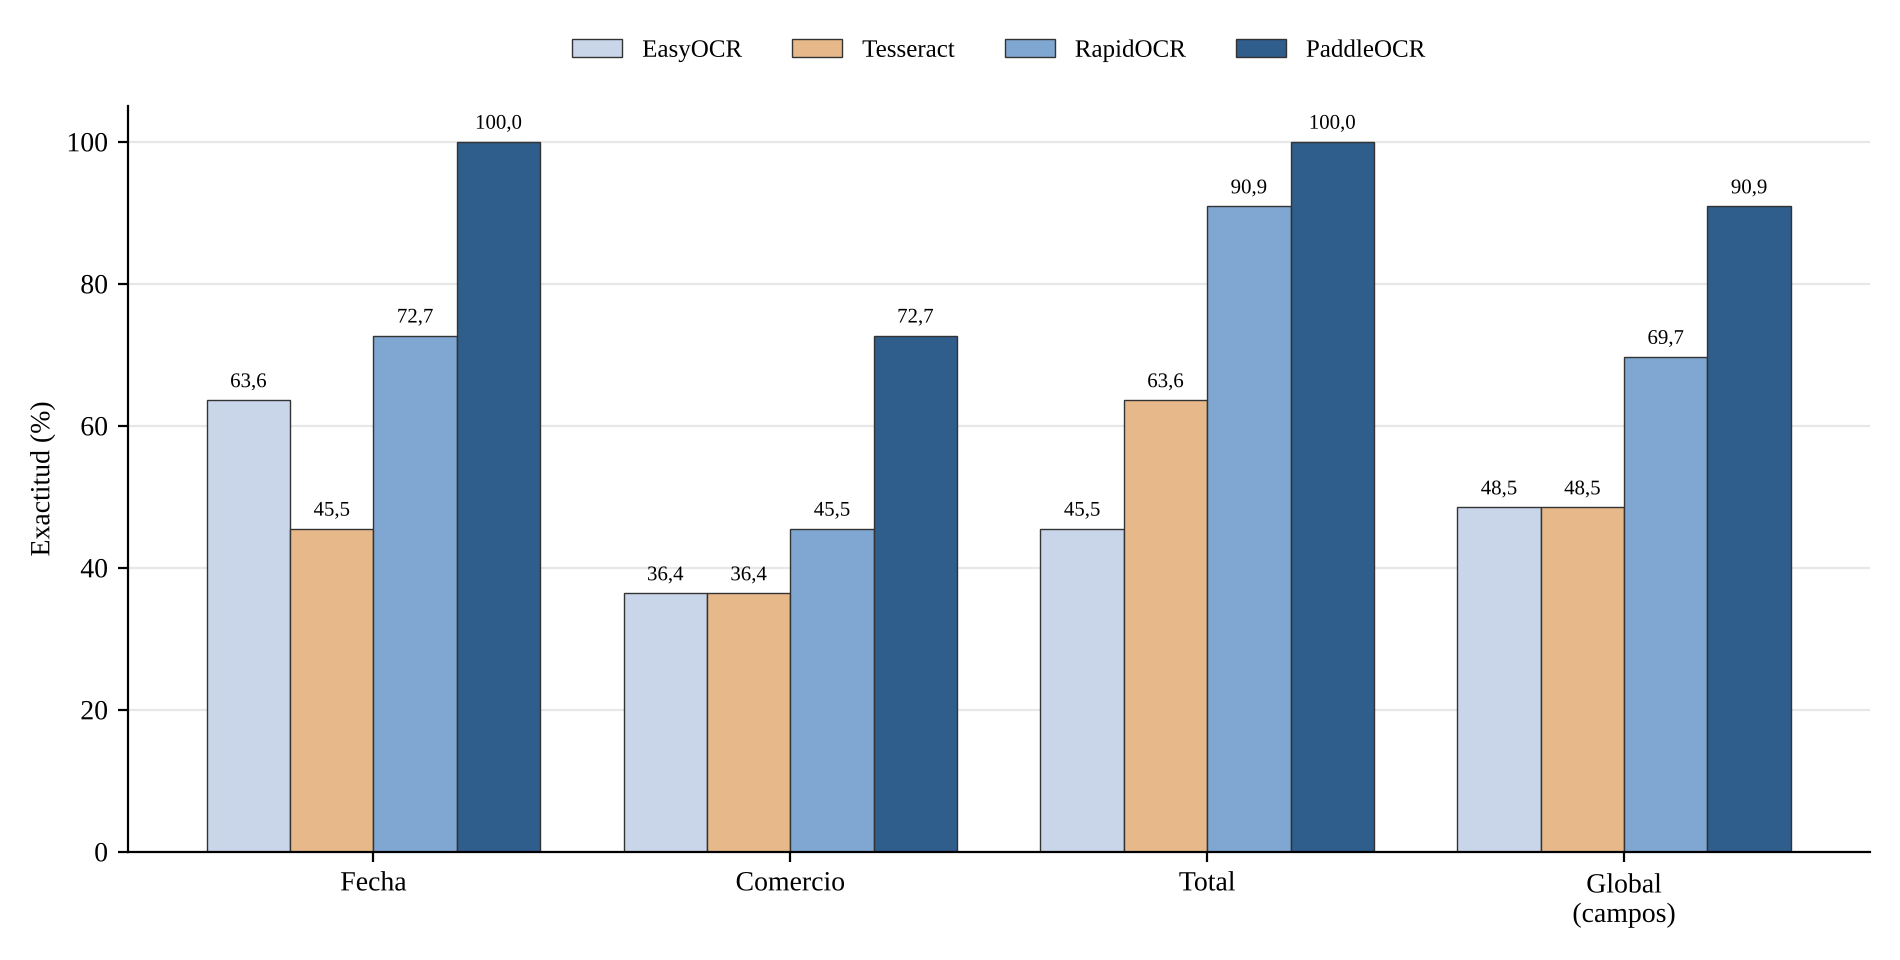
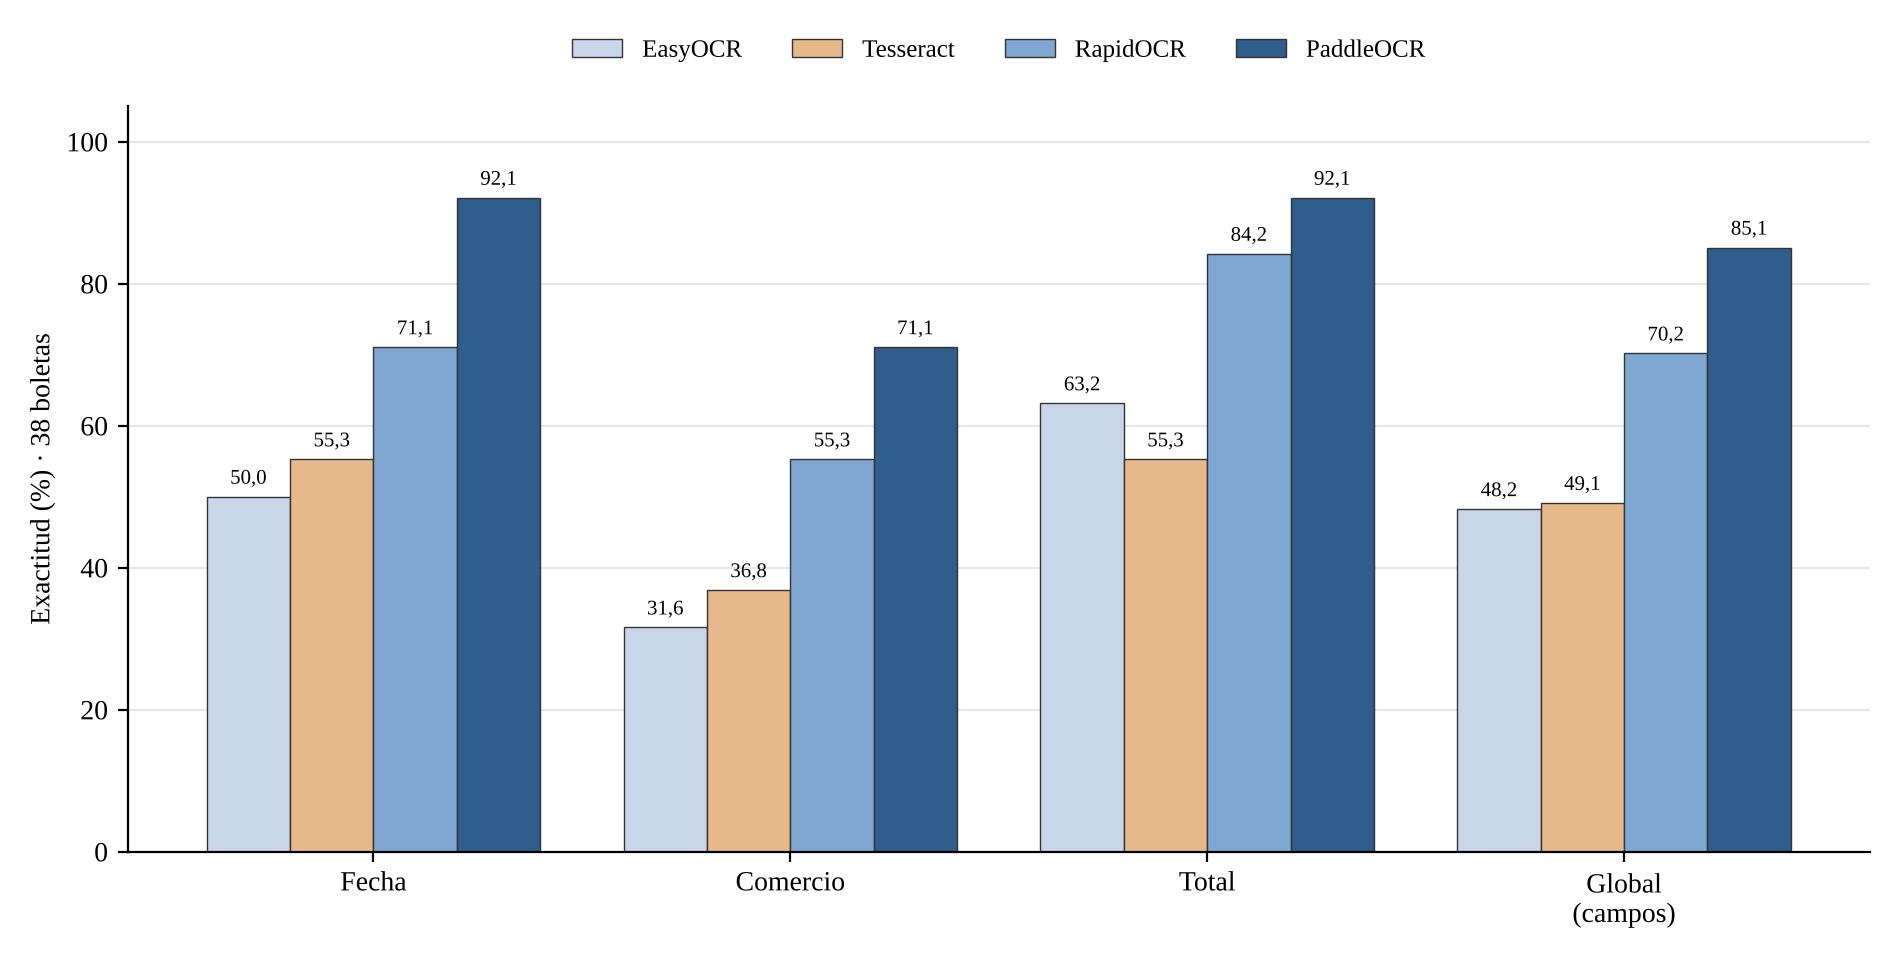
Muestra de 38 boletas: gráficos, métricas y documentación de la validación independiente

diff --git a/experimentos/diagramas/graficos.py b/experimentos/diagramas/graficos.py
@@ -1,6 +1,5 @@
-"""Gráfico de exactitud por campo (4 motores) y lámina de las 11 boletas reales anonimizadas."""
+"""Gráfico de exactitud por campo (4 motores, todas las boletas) y lámina de las boletas reales anonimizadas."""
 import csv
-import json
 from pathlib import Path
 
 import cv2
@@ -11,35 +10,55 @@ import matplotlib.pyplot as plt
 import numpy as np
 
 AQUI = Path(__file__).resolve().parent
-RES = AQUI.parent / "resultados" / "final"
+EXP = AQUI.parent
+RES = EXP / "resultados"
 plt.rcParams["font.family"] = "Liberation Serif"
+MOTORES = ["easyocr", "tesseract", "rapidocr", "paddleocr"]
 
-resumen = {r["motor"]: r for r in json.loads((RES / "resumen.json").read_text())["resultados"]}
-claves = ["exactitud_fecha", "exactitud_comercio", "exactitud_total", "exactitud_global_campos"]
-etiquetas = ["Fecha", "Comercio", "Total", "Global\n(campos)"]
+
+def detalle(carpeta, motor):
+    return list(csv.DictReader((RES / carpeta / f"detalle_{motor}.csv").open(encoding="utf-8")))
+
+
+# Todas las boletas: R1-R11 (carpeta final) + R12-R38 (validación independiente)
+filas = {m: detalle("final", m) + (detalle("validacion_independiente", m) if (RES / "validacion_independiente").exists() else []) for m in MOTORES}
+n_total = len(filas["paddleocr"])
+
+
+def pct(m, claves):
+    ok = sum(sum(int(f[c]) for c in claves) for f in filas[m])
+    return 100 * ok / (len(claves) * len(filas[m]))
+
+
+grupos = [("Fecha", ["fecha_ok"]), ("Comercio", ["comercio_ok"]), ("Total", ["total_ok"]), ("Global\n(campos)", ["fecha_ok", "comercio_ok", "total_ok"])]
 series = [("EasyOCR", "easyocr", "#C9D6EA"), ("Tesseract", "tesseract", "#E7B98A"), ("RapidOCR", "rapidocr", "#7FA7D1"), ("PaddleOCR", "paddleocr", "#2F5D8C")]
 fig, ax = plt.subplots(figsize=(9.5, 4.8), dpi=200)
-x = np.arange(len(claves)); w = 0.2
+x = np.arange(len(grupos)); w = 0.2
 for i, (nombre, motor, color) in enumerate(series):
-    valores = [resumen[motor][k] for k in claves]
+    valores = [pct(motor, claves) for _, claves in grupos]
     barras = ax.bar(x + (i - 1.5) * w, valores, w, label=nombre, color=color, edgecolor="#333333", linewidth=0.5)
     for b, v in zip(barras, valores):
         ax.text(b.get_x() + b.get_width() / 2, v + 1.2, f"{v:.1f}".replace(".", ","), ha="center", va="bottom", fontsize=7.5)
-ax.set_xticks(x, etiquetas); ax.set_ylim(0, 105); ax.set_ylabel("Exactitud (%)")
+ax.set_xticks(x, [g for g, _ in grupos]); ax.set_ylim(0, 105); ax.set_ylabel(f"Exactitud (%) · {n_total} boletas")
 ax.spines[["top", "right"]].set_visible(False); ax.yaxis.grid(True, alpha=0.3); ax.set_axisbelow(True)
 ax.legend(frameon=False, ncol=4, loc="upper center", bbox_to_anchor=(0.5, 1.12), fontsize=9)
 fig.tight_layout(); fig.savefig(AQUI / "exactitud_por_campo.png", facecolor="white")
 
-ids = [r["id"] for r in csv.DictReader((AQUI.parent / "datos/referencia.csv").open(encoding="utf-8"))]
-archivos = {r["id"]: r["archivo"] for r in csv.DictReader((AQUI.parent / "datos/referencia.csv").open(encoding="utf-8"))}
+# Lámina de la muestra (las imágenes de R12-R38 están en datos_privado, fuera de Git)
+refs = list(csv.DictReader((EXP / "datos/referencia.csv").open(encoding="utf-8")))
+if (EXP / "datos_privado/referencia.csv").exists():
+    refs += [dict(r, _privado=True) for r in csv.DictReader((EXP / "datos_privado/referencia.csv").open(encoding="utf-8"))]
 imgs = []
-for i in ids:
-    im = cv2.imread(str(AQUI.parent / "datos" / archivos[i]))
-    im = cv2.resize(im, (300, 430), interpolation=cv2.INTER_AREA)
-    cv2.rectangle(im, (0, 396), (300, 430), (255, 255, 255), -1)
-    cv2.putText(im, i, (8, 422), cv2.FONT_HERSHEY_SIMPLEX, 0.7, (20, 20, 20), 2, cv2.LINE_AA)
-    imgs.append(cv2.copyMakeBorder(im, 4, 4, 4, 4, cv2.BORDER_CONSTANT, value=(255, 255, 255)))
-while len(imgs) % 6:
+for r in refs:
+    ruta = EXP / ("datos_privado" if r.get("_privado") else "datos") / r["archivo"]
+    if not ruta.exists():
+        continue
+    im = cv2.imread(str(ruta))
+    im = cv2.resize(im, (220, 316), interpolation=cv2.INTER_AREA)
+    cv2.rectangle(im, (0, 290), (220, 316), (255, 255, 255), -1)
+    cv2.putText(im, r["id"], (6, 311), cv2.FONT_HERSHEY_SIMPLEX, 0.55, (20, 20, 20), 2, cv2.LINE_AA)
+    imgs.append(cv2.copyMakeBorder(im, 3, 3, 3, 3, cv2.BORDER_CONSTANT, value=(255, 255, 255)))
+columnas = 8
+while len(imgs) % columnas:
     imgs.append(np.full_like(imgs[0], 255))
-filas = [np.hstack(imgs[k:k + 6]) for k in range(0, len(imgs), 6)]
-cv2.imwrite(str(AQUI / "muestras_dataset.png"), np.vstack(filas))
+cv2.imwrite(str(AQUI / "muestras_dataset.png"), np.vstack([np.hstack(imgs[k:k + columnas]) for k in range(0, len(imgs), columnas)]))

diff --git a/experimentos/metricas_complementarias.py b/experimentos/metricas_complementarias.py
@@ -18,8 +18,9 @@ def wilson(aciertos: int, n: int, z: float = 1.96) -> tuple[float, float]:
 
 
 salida = {}
+TODOS = ("easyocr", "tesseract", "rapidocr", "paddleocr")
 RONDAS = [("ronda1", RES / "ronda1_sin_normalizacion", ("easyocr", "tesseract")), ("ronda2", RES, ("easyocr", "tesseract")),
-          ("final", RES / "final", ("easyocr", "tesseract", "rapidocr", "paddleocr"))]
+          ("final", RES / "final", TODOS), ("validacion", RES / "validacion_independiente", TODOS)]
 for ronda, carpeta, motores in RONDAS:
     for motor in motores:
         if not (carpeta / f"detalle_{motor}.csv").exists():
@@ -33,5 +34,14 @@ for ronda, carpeta, motores in RONDAS:
             "ic95_por_campo": {c: wilson(v, n) for c, v in por_campo.items()},
             "boletas_completas": int(sum(int(f["fecha_ok"]) + int(f["comercio_ok"]) + int(f["total_ok"]) == 3 for f in filas)), "n": n,
         }
+# Todas las boletas (ajuste + validación independiente)
+for motor in TODOS:
+    if not (RES / "validacion_independiente" / f"detalle_{motor}.csv").exists():
+        continue
+    filas = (list(csv.DictReader((RES / "final" / f"detalle_{motor}.csv").open(encoding="utf-8")))
+             + list(csv.DictReader((RES / "validacion_independiente" / f"detalle_{motor}.csv").open(encoding="utf-8"))))
+    n = len(filas)
+    campos = sum(int(f["fecha_ok"]) + int(f["comercio_ok"]) + int(f["total_ok"]) for f in filas)
+    salida[f"todas_{motor}"] = {"campos_correctos": campos, "campos_total": 3 * n, "ic95_global": wilson(campos, 3 * n), "n": n}
 (RES / "metricas_complementarias.json").write_text(json.dumps(salida, ensure_ascii=False, indent=2), encoding="utf-8")
 print(json.dumps(salida, ensure_ascii=False))

diff --git a/experimentos/README.md b/experimentos/README.md
@@ -1,18 +1,20 @@
 # Experimentos del informe final
 
-Evaluación reproducible del prototipo con **11 boletas reales anonimizadas** (capítulos 7.4 y 8 del informe).
+Evaluación reproducible del prototipo con **38 boletas reales anonimizadas** (capítulos 7.4 y 8 del informe): 11 con las que se ajustaron las reglas (R1 a R11) y 27 de validación independiente (R12 a R38).
 
 ## Contenido
 
 | Ruta | Descripción |
 |---|---|
+| `datos_privado/` | Referencias (`referencia.csv`) de las 27 boletas de validación (R12 a R38). Sus imágenes anonimizadas **no están en Git** (repositorio público) y se entregan aparte en el archivo de datos; se esperan en `datos_privado/imagenes/`. |
 | `datos/imagenes/` | 11 fotografías reales (R1 a R11) tomadas por el equipo. Los datos personales y de pago (tarjetas, DNI, códigos de transacción, nombres de personas, RUC de persona natural, códigos QR y de barras) están cubiertos con recuadros negros. |
 | `datos/referencia.csv` | Fecha, comercio (formas válidas separadas por `\|`) y total correctos, transcritos manualmente. La fecha de R10 es inferida. |
 | `evaluar_ocr.py` | Experimentos 1 y 3: ejecuta el pipeline real con EasyOCR (opcional), Tesseract, RapidOCR y PaddleOCR y mide exactitud y tiempos. |
 | `comparar_preprocesado.py` | Experimento 4: compara cuatro formas de preparar la imagen. |
 | `metricas_complementarias.py` | Intervalos de confianza de Wilson (95 %). |
 | `experimento2/` | Protocolo, plantilla y script del Experimento 2 (tiempo de registro con usuarios); **no se ejecutó**. |
-| `resultados/final/` | Resultados del prototipo actual con los cuatro motores (detalle por boleta, `resumen.json`, `resumen.md`). |
+| `resultados/final/` | Resultados de los cuatro motores con R1 a R11 (detalle por boleta, `resumen.json`, `resumen.md`). |
+| `resultados/validacion_independiente/` | Resultados de los cuatro motores con R12 a R38, medidas sin ajustar ninguna regla. |
 | `resultados/final_previo/` | Mismos motores antes de la última corrección de las reglas de fecha y de importe en letras. |
 | `resultados/ronda1_sin_normalizacion/`, `resultados/*.md` | Rondas anteriores (cinco boletas, preprocesado, boletas nuevas y comparación de motores). |
 | `diagramas/` | Diagrama de flujo, arquitectura, gráfico de resultados, lámina de la muestra y capturas reales del prototipo. |
@@ -32,13 +34,15 @@ python experimentos/comparar_preprocesado.py paddleocr
 Si los modelos de PaddleOCR ya están descargados, define `PADDLE_MODELOS` con la carpeta que contiene
 `PP-OCRv5_mobile_det_infer` y `latin_PP-OCRv5_mobile_rec_infer`.
 
-## Resultados (prototipo actual, 11 boletas reales, CPU, imagen en grises)
+## Resultados (prototipo actual, CPU, imagen en grises)
 
 | Métrica | PaddleOCR | RapidOCR | EasyOCR | Tesseract |
 |---|---|---|---|---|
-| Exactitud global de campos | 90.9 % | 69.7 % | 48.5 % | 48.5 % |
-| Boletas con los 3 campos correctos | 8 de 11 | 3 de 11 | 1 de 11 | 1 de 11 |
-| Tiempo medio por boleta | 11.2 s | 1.2 s | 12.2 s | 1.3 s |
+| Exactitud global, 38 boletas | 85.1 % | 70.2 % | 48.2 % | 49.1 % |
+| Exactitud global, ajuste (R1–R11) | 90.9 % | 69.7 % | 48.5 % | 48.5 % |
+| Exactitud global, validación independiente (R12–R38) | 82.7 % | 70.4 % | 48.1 % | 49.4 % |
+| Tiempo medio por boleta | 11.6 s | 1.3 s | 13.1 s | 1.4 s |
 
-La muestra es pequeña y las reglas de extracción se ajustaron mirando fallos de estas mismas boletas:
-los porcentajes son indicativos y deben confirmarse con boletas nuevas.
+Las reglas se ajustaron con R1 a R11; R12 a R38 se midieron sin tocarlas. La muestra es moderada: los
+porcentajes son indicativos. Para evaluar R12 a R38 hay que copiar sus imágenes anonimizadas a
+`datos_privado/imagenes/` y ejecutar `python experimentos/evaluar_ocr.py --motor todos --datos experimentos/datos_privado`.

diff --git a/README.md b/README.md
@@ -198,7 +198,7 @@ Las pruebas se ejecutan sobre una carpeta de datos temporal (nunca tocan `data/`
 
 ## Experimentos del informe final
 
-La carpeta `experimentos/` contiene una muestra de 11 boletas **reales anonimizadas**, sus valores de referencia, los scripts que comparan PaddleOCR, RapidOCR, EasyOCR y Tesseract con el pipeline real (EasyOCR ya no es dependencia: para reproducir sus rondas, `pip install easyocr`) y los resultados obtenidos. Las instrucciones para reproducirlos están en `experimentos/README.md`.
+La carpeta `experimentos/` contiene los valores de referencia de 38 boletas **reales anonimizadas** (las imágenes de 11 están en el repositorio y las de 27 se entregan aparte), sus valores de referencia, los scripts que comparan PaddleOCR, RapidOCR, EasyOCR y Tesseract con el pipeline real (EasyOCR ya no es dependencia: para reproducir sus rondas, `pip install easyocr`) y los resultados obtenidos. Las instrucciones para reproducirlos están en `experimentos/README.md`.
 
 ## Limitaciones conocidas
 
